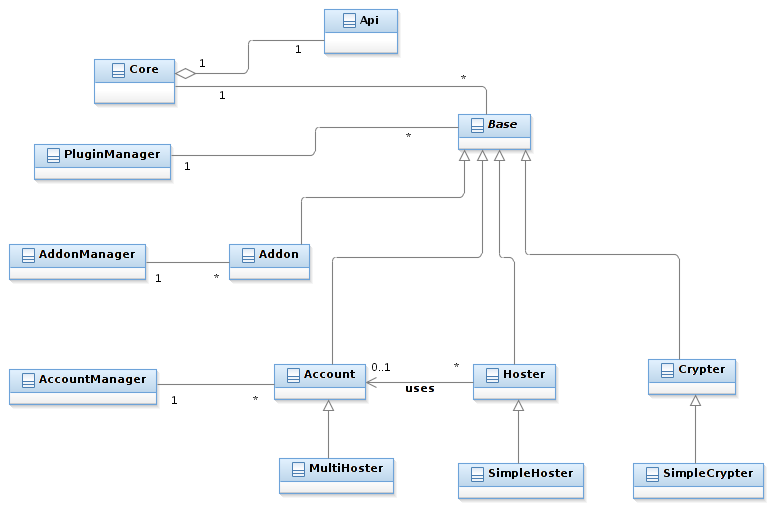
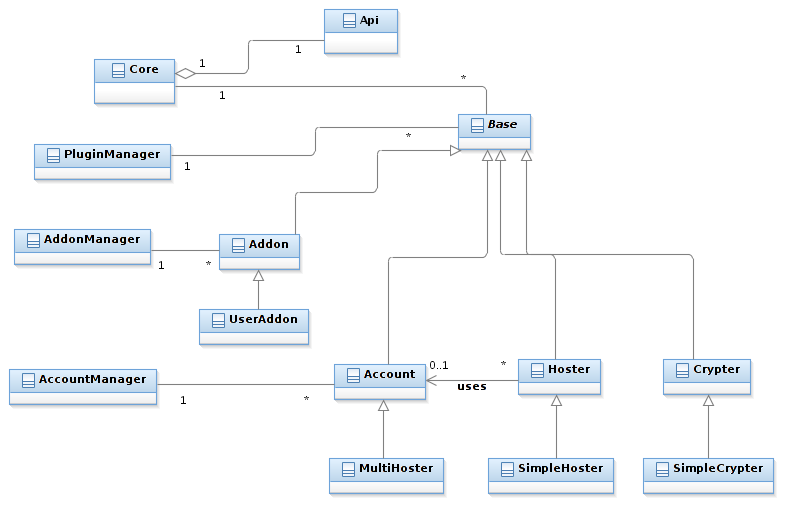
some classes for multi user mode
--HG--
rename : module/forwarder.py => module/lib/forwarder.py

diff --git a/module/database/DatabaseBackend.py b/module/database/DatabaseBackend.py
@@ -322,13 +322,36 @@ class DatabaseBackend(Thread):
 
         self.c.execute(
             'CREATE TABLE IF NOT EXISTS "users" ('
-            '"name" TEXT PRIMARY KEY NOT NULL, '
+            '"id" INTEGER PRIMARY KEY AUTOINCREMENT, '
+            '"name" TEXT NOT NULL, '
             '"email" TEXT DEFAULT "" NOT NULL, '
             '"password" TEXT NOT NULL, '
             '"role" INTEGER DEFAULT 0 NOT NULL, '
             '"permission" INTEGER DEFAULT 0 NOT NULL, '
             '"folder" TEXT DEFAULT "" NOT NULL, '
-            '"template" TEXT DEFAULT "default" NOT NULL'
+            '"ratio" INTEGER DEFAULT -1 NOT NULL, '
+            '"limit" INTEGER DEFAULT -1 NOT NULL, '
+            '"template" TEXT DEFAULT "default" NOT NULL, '
+            '"user" INTEGER DEFAULT -1 NOT NULL, '
+            'FOREIGN KEY(user) REFERENCES users(id)'
+            ')'
+        )
+
+        self.c.execute(
+            'CREATE TRIGGER IF NOT EXISTS "insert_user" AFTER INSERT ON "users"'
+            'BEGIN '
+            'UPDATE users SET user = new.id '
+            'WHERE rowid = new.rowid;'
+            'END'
+        )
+
+        self.c.execute(
+            'CREATE TABLE IF NOT EXISTS "settings" ('
+            '"plugin" TEXT NOT NULL, '
+            '"owner" INTEGER NOT NULL, '
+            '"configuration" TEXT NOT NULL, '
+            'FOREIGN KEY(owner) REFERENCES users(id), '
+            'PRIMARY KEY (plugin, owner) ON CONFLICT REPLACE'
             ')'
         )
 
@@ -339,8 +362,8 @@ class DatabaseBackend(Thread):
             '"activated" INTEGER DEFAULT 1, '
             '"password" TEXT DEFAULT "", '
             '"options" TEXT DEFAULT "", '
-#            '"user" TEXT NOT NULL, '
-#            'FOREIGN KEY(user) REFERENCES users(name)'
+#            '"owner" INTEGER NOT NULL, ' TODO: shared, owner attribute
+#            'FOREIGN KEY(owner) REFERENCES users(id)'
             'PRIMARY KEY (plugin, loginname) ON CONFLICT REPLACE'
             ')'
         )

diff --git a/module/plugins/UserAddon.py b/module/plugins/UserAddon.py
@@ -1,0 +1,25 @@
+# -*- coding: utf-8 -*-
+
+"""
+    This program is free software; you can redistribute it and/or modify
+    it under the terms of the GNU General Public License as published by
+    the Free Software Foundation; either version 3 of the License,
+    or (at your option) any later version.
+
+    This program is distributed in the hope that it will be useful,
+    but WITHOUT ANY WARRANTY; without even the implied warranty of
+    MERCHANTABILITY or FITNESS FOR A PARTICULAR PURPOSE.
+    See the GNU General Public License for more details.
+
+    You should have received a copy of the GNU General Public License
+    along with this program; if not, see <http://www.gnu.org/licenses/>.
+
+    @author: RaNaN
+"""
+
+from Addon import Addon
+
+class UserAddon(Addon):
+    """
+    Special type of an addon that only works a specific user. Has a configuration for every user who added it .
+    """

diff --git a/module/UserManager.py b/module/UserManager.py
@@ -1,0 +1,23 @@
+#!/usr/bin/env python
+# -*- coding: utf-8 -*-
+"""
+    This program is free software; you can redistribute it and/or modify
+    it under the terms of the GNU General Public License as published by
+    the Free Software Foundation; either version 3 of the License,
+    or (at your option) any later version.
+
+    This program is distributed in the hope that it will be useful,
+    but WITHOUT ANY WARRANTY; without even the implied warranty of
+    MERCHANTABILITY or FITNESS FOR A PARTICULAR PURPOSE.
+    See the GNU General Public License for more details.
+
+    You should have received a copy of the GNU General Public License
+    along with this program; if not, see <http://www.gnu.org/licenses/>.
+
+    @author: RaNaN
+"""
+
+class UserManager:
+    """
+    Manager class to handle all user related stuff
+    """
